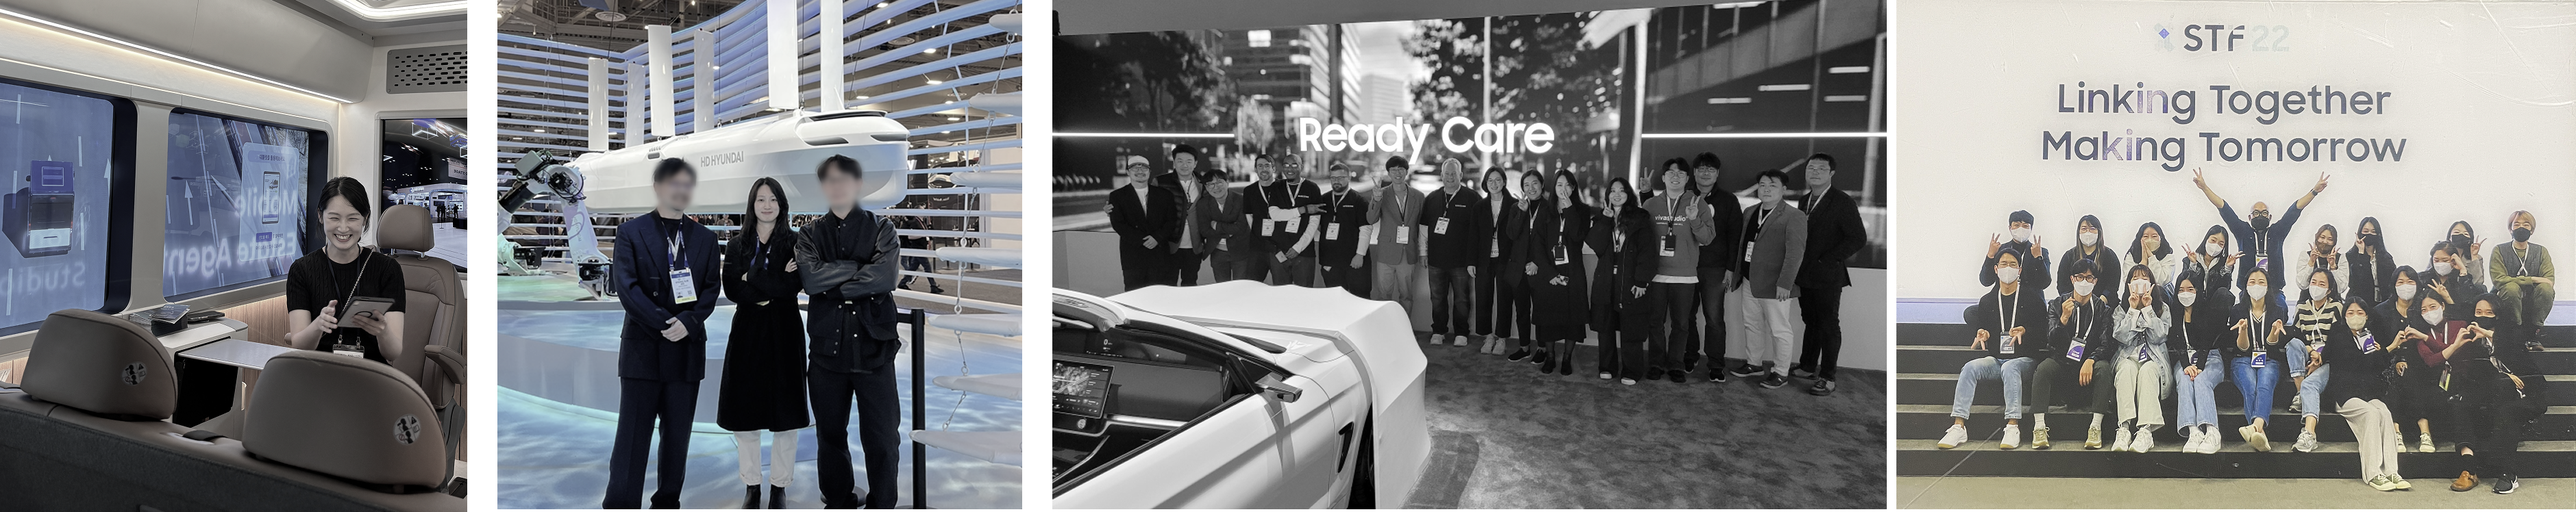
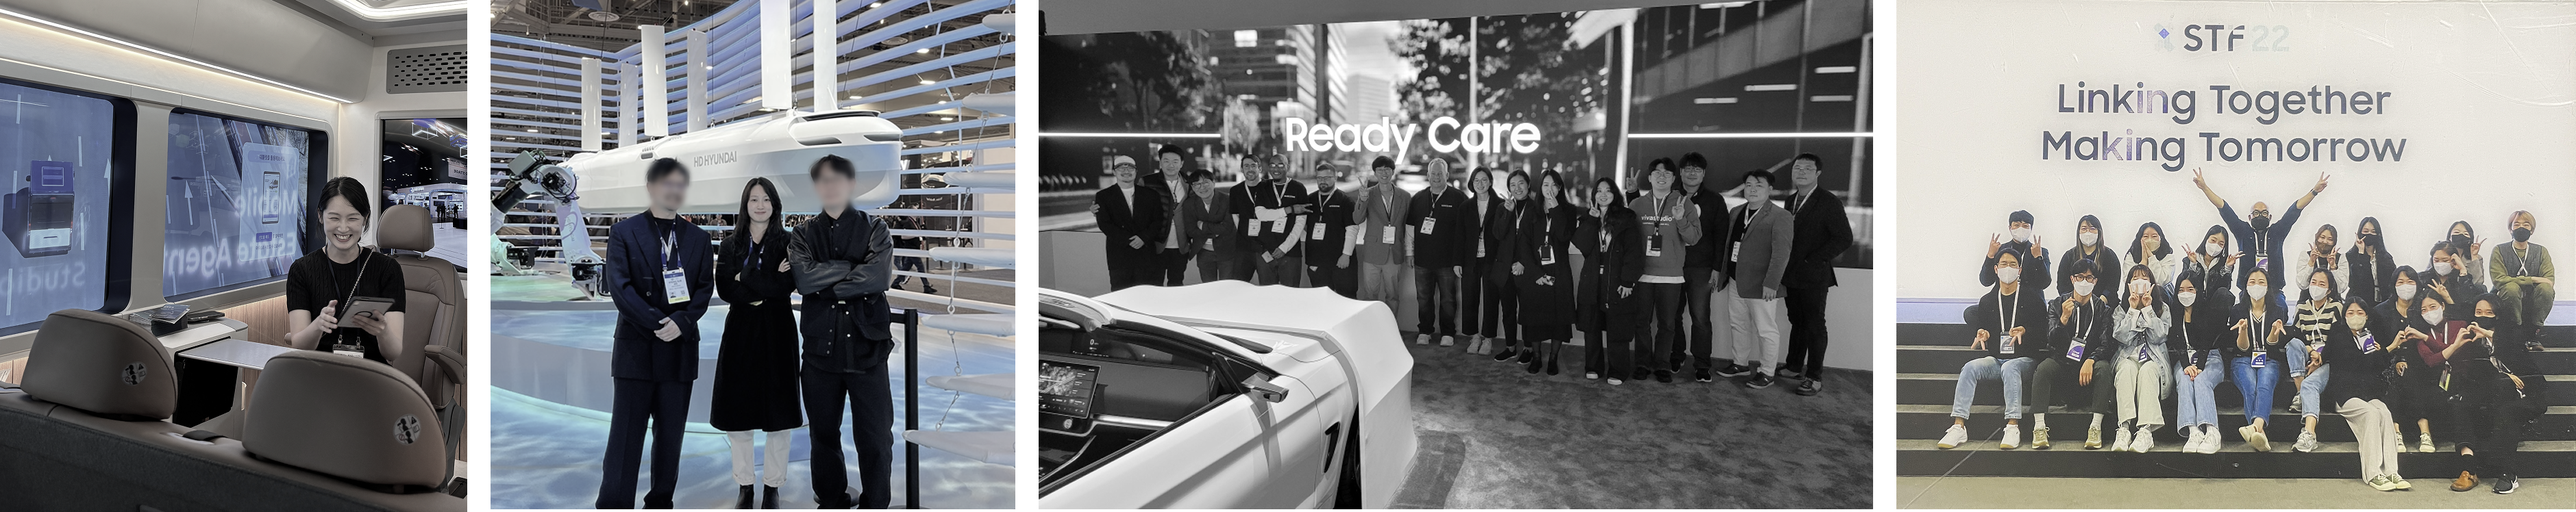
fix: remove the tracking cursor, widen chat chip spacing, update photo
- Removed the custom cursor dot/ring (cursor-fx.js): it didn't track
  the real mouse position reliably. Kept the magnetic button-pull
  effect from the same file, which is unrelated and still works.
  Restored native cursor visibility on links/buttons accordingly.
- .chat-chip padding 7px 12px -> 12px 16px, .chat-chips gap 8px -> 12px
- Replaced images/contact-bottom.png with the updated file

Changed region(s): [[0.1867, 0.0, 0.7468, 1.0]]

diff --git a/cursor-fx.js b/cursor-fx.js
@@ -4,46 +4,6 @@
   if (!fine || reduceMotion) return;
 
   function boot() {
-    const dot = document.querySelector("[data-cursor-dot]");
-    const ring = document.querySelector("[data-cursor-ring]");
-    if (!dot || !ring) return;
-
-    const mouse = { x: -100, y: -100 };
-    const ringPos = { x: -100, y: -100 };
-    let hovering = false;
-
-    document.addEventListener("mousemove", (e) => {
-      mouse.x = e.clientX;
-      mouse.y = e.clientY;
-    });
-
-    dot.style.transition = "opacity 0.4s ease 0.3s";
-    ring.style.transition = "opacity 0.4s ease 0.3s";
-    requestAnimationFrame(() => {
-      dot.style.opacity = "1";
-      ring.style.opacity = "1";
-    });
-
-    function tick() {
-      ringPos.x += (mouse.x - ringPos.x) * 0.08;
-      ringPos.y += (mouse.y - ringPos.y) * 0.08;
-      dot.style.transform = `translate3d(${mouse.x}px,${mouse.y}px,0)`;
-      ring.style.transform = `translate3d(${ringPos.x}px,${ringPos.y}px,0) scale(${hovering ? 1.5 : 1})`;
-      requestAnimationFrame(tick);
-    }
-    tick();
-
-    document.querySelectorAll("a, button, [data-work-card], .work-card").forEach((el) => {
-      el.addEventListener("mouseenter", () => {
-        hovering = true;
-        ring.style.background = "#ffffff";
-      });
-      el.addEventListener("mouseleave", () => {
-        hovering = false;
-        ring.style.background = "transparent";
-      });
-    });
-
     document.querySelectorAll("[data-magnetic]").forEach((el) => {
       el.style.willChange = "transform";
       el.style.transition = "transform 0.4s cubic-bezier(0.16, 1, 0.3, 1)";

diff --git a/styles.css b/styles.css
@@ -72,46 +72,6 @@ p {
   padding: 0 clamp(18px, 4vw, 48px);
 }
 
-/* Cursor-fine only: hide native cursor on interactive elements so the
-   custom ring/dot (cursor-fx.js) can take over. Touch/coarse pointers
-   are completely untouched. */
-@media (pointer: fine) and (hover: hover) {
-  a,
-  button,
-  [data-magnetic],
-  [data-work-card] {
-    cursor: none;
-  }
-}
-
-.cursor-ring,
-.cursor-dot {
-  position: fixed;
-  top: 0;
-  left: 0;
-  pointer-events: none;
-  z-index: 998;
-  opacity: 0;
-  mix-blend-mode: difference;
-  transition: opacity 0.2s ease, transform 0.15s ease;
-}
-
-.cursor-ring {
-  width: 34px;
-  height: 34px;
-  margin: -17px 0 0 -17px;
-  border: 1px solid var(--paper);
-  border-radius: 50%;
-}
-
-.cursor-dot {
-  width: 5px;
-  height: 5px;
-  margin: -2.5px 0 0 -2.5px;
-  background: var(--paper);
-  border-radius: 50%;
-}
-
 .scroll-progress {
   position: fixed;
   top: 0;
@@ -1712,12 +1672,12 @@ html.no-agent .overlay {
 .chat-chips {
   display: flex;
   flex-wrap: wrap;
-  gap: 8px;
+  gap: 12px;
   padding: 0 24px 16px 32px;
 }
 
 .chat-chip {
-  padding: 7px 12px;
+  padding: 12px 16px;
   border: 1px solid var(--line-paper);
   border-radius: 999px;
   background: var(--paper);

diff --git a/index.html b/index.html
@@ -43,8 +43,6 @@
   </head>
   <body>
     <div class="scroll-progress" data-progress></div>
-    <div class="cursor-ring" data-cursor-ring></div>
-    <div class="cursor-dot" data-cursor-dot></div>
 
     <div class="page-shell">
     <div class="page-content">
